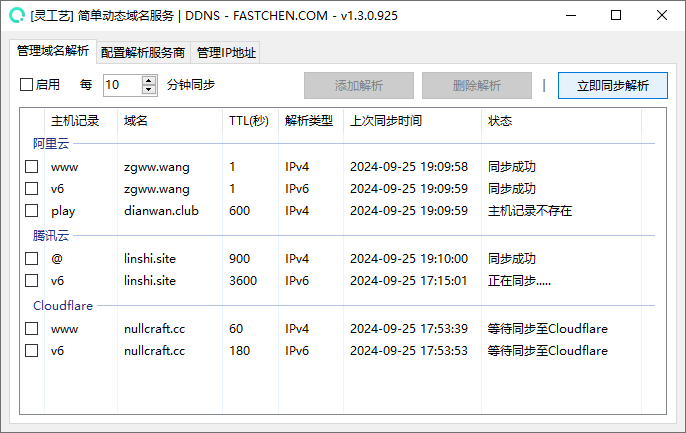
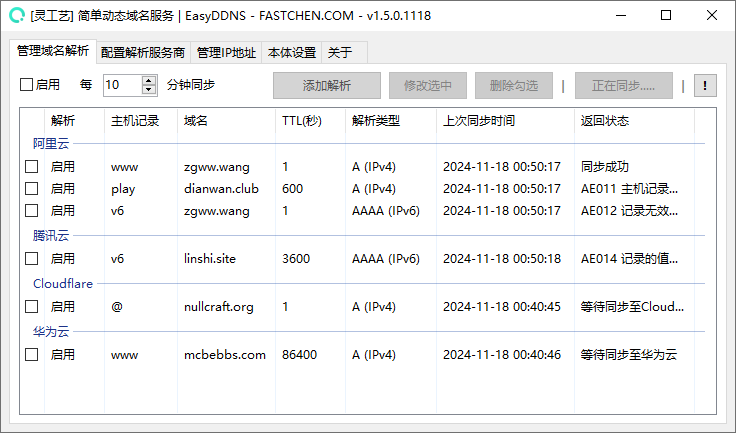
#96: Update /software/easyddns

diff --git a/software/easyddns/errorcode.md b/software/easyddns/errorcode.md
@@ -14,5 +14,5 @@ description: errorCode
 
 通常出现于请求对应解析服务商时返回的错误
 
-<table><thead><tr><th width="117">错误码</th><th>错误信息</th><th>描述</th></tr></thead><tbody><tr><td>AE001</td><td>鉴权认证失败</td><td>检查鉴权信否正确、过期、无效</td></tr><tr><td>AE002</td><td>未找到鉴权信息</td><td>对应服务商内无法填写的鉴权信息</td></tr><tr><td>AE003</td><td>鉴权信息不匹配</td><td>鉴权的 ID/KEY 信息不匹配</td></tr><tr><td>AE011</td><td>主机记录不存在</td><td>无法找到对应的域名记录信息</td></tr><tr><td>AE012</td><td>记录无效或格式错误</td><td>记录解析类型不导致无法成功提交</td></tr></tbody></table>
+<table data-full-width="false"><thead><tr><th width="109">错误码</th><th width="187">错误信息</th><th width="336">描述</th><th align="center">来源</th></tr></thead><tbody><tr><td>AE001</td><td>鉴权认证失败</td><td>检查鉴权信否正确、过期、无效</td><td align="center">服务商返回</td></tr><tr><td>AE002</td><td>未找到鉴权信息</td><td>对应服务商内无法填写的鉴权信息</td><td align="center">服务商返回</td></tr><tr><td>AE003</td><td>鉴权信息不匹配</td><td>鉴权的 ID/KEY 信息不匹配</td><td align="center">服务商返回</td></tr><tr><td>AE011</td><td>主机记录不存在</td><td>无法找到对应的域名记录信息</td><td align="center">服务商返回或数据错误</td></tr><tr><td>AE012</td><td>记录无效或格式错误</td><td>记录解析类型不导致无法成功提交</td><td align="center">服务商返回</td></tr><tr><td>AE013</td><td>域名属于其他用户</td><td>当前账户中找不到需要解析的域名信息</td><td align="center">服务商返回</td></tr><tr><td>AE014</td><td>记录的值不正确</td><td>解析类型内填写的值不符合规范</td><td align="center">服务商返回</td></tr></tbody></table>
 

diff --git a/donate/README.md b/donate/README.md
@@ -20,7 +20,7 @@ description: Donate made us even stronger
 因第三方捐助平台：爱发电单次支持最低限额设置为 5¥$$^2$$，故其它方式捐助支持的小伙伴发放勋章需要以爱发电平台为最底限额进行发放
 {% endhint %}
 
-**(1).**个人账户ID是注册灵工艺社区后你的个人的唯一标识名称。
+\*\*(1).\*\*个人账户ID是注册灵工艺社区后你的个人的唯一标识名称。
 
 **个人账户地址获取方法:**
 
@@ -29,7 +29,7 @@ description: Donate made us even stronger
 3. 在弹出菜单中选择 `个人主页`
 4. 打开后将此页面的地址链接复制并发送给快辰
 
-**(2).**爱发电平台最低设置捐赠额为 `5¥` 为了与其他赞助者公平获得，以此作为最低发放额。
+\*\*(2).\*\*爱发电平台最低设置捐赠额为 `5¥` 为了与其他赞助者公平获得，以此作为最低发放额。
 
 ## 捐助方案 <a href="#plan" id="plan"></a>
 
@@ -39,7 +39,7 @@ description: Donate made us even stronger
 如果下方二维码图片加载失败可 [点击此处](https://pujipuji.com/) 打开页面
 {% endhint %}
 
-<figure><img src="../.gitbook/assets/AllPay.png" alt=""><figcaption><p>微信  |  支付宝  |  QQ<br>统一收款名称：快辰</p></figcaption></figure>
+<figure><img src="../.gitbook/assets/AllPay.png" alt=""><figcaption><p>微信 | 支付宝 | QQ<br>统一收款名称：快辰</p></figcaption></figure>
 
 ### 通过第三方平台捐助
 
@@ -58,7 +58,7 @@ description: Donate made us even stronger
 ### 今年(2024🐲)的捐助列表 <a href="#now" id="now"></a>
 
 {% hint style="info" %}
-当前列表更新时间 2024-09-25 12:00
+当前列表更新时间 2024-11-18 01:20
 {% endhint %}
 
 | 日期(2024)   | 名称          | 金额(¥) | 捐助留言              | 我的回复   |

diff --git a/software/easyddns/README.md b/software/easyddns/README.md
@@ -47,8 +47,10 @@ Trace.WriteLine(NullCraftSoftwareList.Items.Conut());
 
 ### 软件图片 <a href="#ruan-jian-tu-pian" id="ruan-jian-tu-pian"></a>
 
-<figure><img src="../../.gitbook/assets/easyddns_add_domain.png" alt=""><figcaption><p>简单动态域名服务 | 添加解析记录</p></figcaption></figure>
+<figure><img src="../../.gitbook/assets/easyddns_home.png" alt=""><figcaption><p>简单动态域名服务 | 主页</p></figcaption></figure>
 
-<figure><img src="../../.gitbook/assets/easyddns_main.png" alt=""><figcaption><p>简单动态域名服务 | 主界面</p></figcaption></figure>
+<figure><img src="../../.gitbook/assets/easyddns_add.png" alt=""><figcaption><p>简单动态域名服务 | 添加解析</p></figcaption></figure>
 
-<figure><img src="../../.gitbook/assets/easyddns_sync.png" alt=""><figcaption><p>简单动态域名服务 | 正在同步解析</p></figcaption></figure>
+<figure><img src="../../.gitbook/assets/easyddns_sync.png" alt=""><figcaption><p>简单动态域名服务 | 同步解析</p></figcaption></figure>
+
+<figure><img src="../../.gitbook/assets/easyddns_sync_done.png" alt=""><figcaption><p>简单动态域名服务 | 同步完成</p></figcaption></figure>

diff --git a/software/easyddns/tutorial.md b/software/easyddns/tutorial.md
@@ -40,9 +40,9 @@ description: EasyDDNS Tutorial
 
 在服务商手动添加完解析后，前往 《简单动态域名服务》 中的 **管理域名解析** 页面 点击 **添加解析** 按钮，填写对应的 **主机记录**、**域名** 和 **服务商** 即可。
 
-<figure><img src="../../.gitbook/assets/easyddns_add_domain.png" alt=""><figcaption><p>添加新的解析</p></figcaption></figure>
+<figure><img src="../../.gitbook/assets/easyddns_add.png" alt=""><figcaption><p>添加新的解析</p></figcaption></figure>
 
-添加后，点击 **立即同步** 按钮可以快速同步一次，也可以  **勾选启用** 并配置循环同步时间即可(单位：分钟)
+添加后，点击 **立即同步** 按钮可以快速同步一次，也可以 **勾选启用** 并配置循环同步时间即可(单位：分钟)
 
 <figure><img src="../../.gitbook/assets/easyddns_sync.png" alt=""><figcaption><p>正在进行同步</p></figcaption></figure>
 

diff --git a/tutorial/syntax/markdown.md b/tutorial/syntax/markdown.md
@@ -175,7 +175,7 @@ ___粗斜体文本___
 {% endtab %}
 
 {% tab title="列表嵌套" %}
-### 无序嵌套
+#### 无序嵌套
 
 ```
 - 第一项
@@ -195,7 +195,7 @@ ___粗斜体文本___
   * 第二项嵌套的第一个元素
   * 第二项嵌套的第二个元素
 
-### 有序嵌套
+#### 有序嵌套
 
 ```
 1. 第一项：
